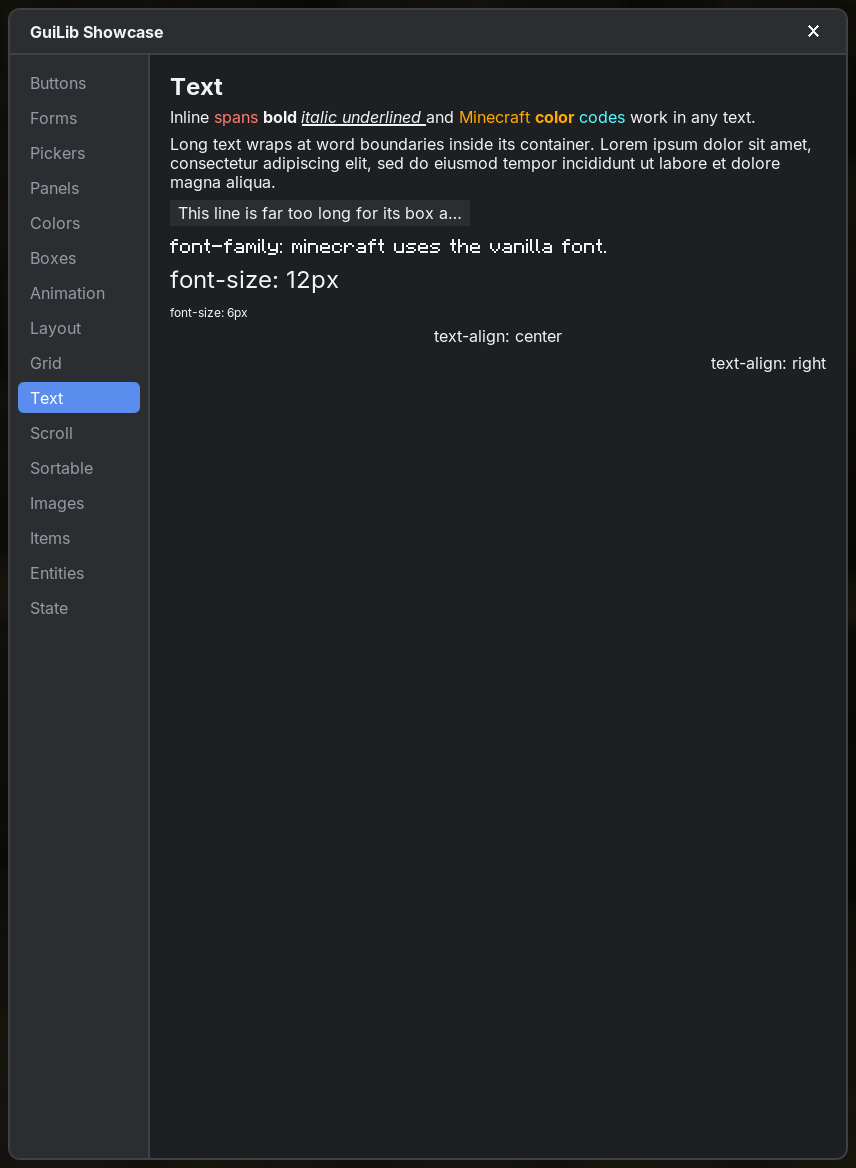
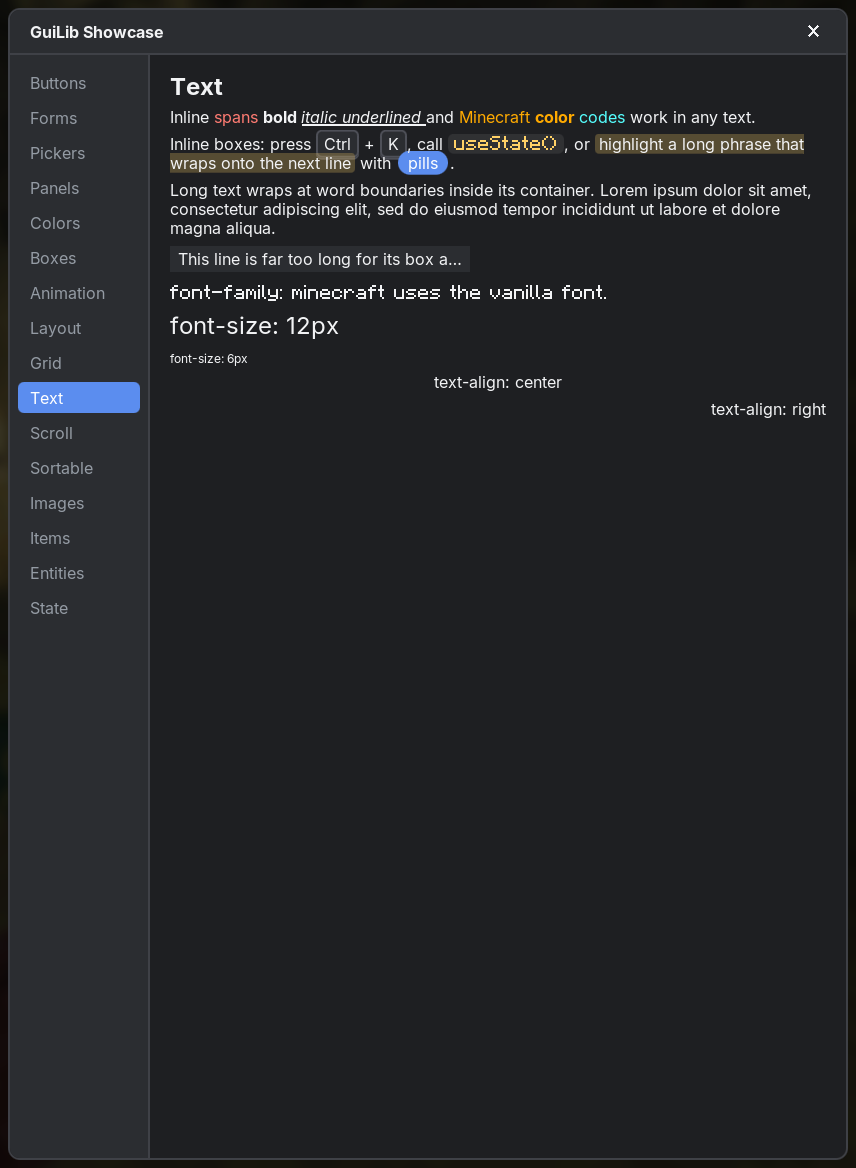
GuiLib docs: inline element boxes

diff --git a/guilib/differences.html b/guilib/differences.html
@@ -27,7 +27,7 @@
   <main class="content">
     <article>
       <div class="page-head"><div class="eyebrow">Guide</div><h1>Differences from the web</h1><p class="lead">GuiLib follows the web wherever it can. These are the places where it doesn&#x27;t. Read this once; it saves time.</p></div>
-      <h2 id="units-defaults"><a class="anchor" href="#units-defaults">#</a>Units &amp; defaults</h2><ul><li><strong><code>px</code> means GUI pixels</strong> (scaled by Minecraft&#x27;s GUI scale). The default <code>font-size</code> is <strong>8px</strong> and <code>1rem = 8px</code>, so a web value like <code>font-size: 14px</code> is large here; typical UI text is 7–10px.</li><li><code>body</code> <strong>is the screen</strong>: always exactly viewport-sized; there is no <code>html</code>; <code>:root</code> matches <code>body</code>.</li><li><code>box-sizing: border-box</code> is the <strong>default</strong> for everything.</li><li><strong>No margin collapsing</strong>: vertical margins add up.</li><li>The default text color is light (<code>#f2f3f5</code>), the default font Inter.</li><li><code>border-width</code> defaults to 1px; like the web, a border without <code>border-style</code> draws nothing.</li></ul><h2 id="api"><a class="anchor" href="#api">#</a>API</h2><ul><li><code>style</code> is a CSS <strong>string</strong>, not an object. Event handlers are Kotlin lambdas (<code>onClick = { e -&gt; … }</code>).</li><li><code>useEffect { }</code> without deps runs <strong>once</strong> (like <code>[]</code>); there is no &quot;run after every render&quot; variant.</li><li><code>onChange</code> on inputs, selects, checkboxes, switches and sliders fires on every change (React behaviour); sliders also have <code>onChangeEnd</code>.</li></ul><h2 id="rendering"><a class="anchor" href="#rendering">#</a>Rendering</h2><ul><li><code>overflow: hidden</code> clips <strong>rectangularly</strong>. With <code>border-radius</code> on the clipping element, child backgrounds that sit exactly in one of its corners (headers, footers, sidebars) are rounded to match; other content is not cut to the curve.</li><li>Per-side borders on a box with <code>border-radius</code> are drawn as straight strips that stop at the rounded corners. Uniform borders are exact.</li><li>Inline elements (<code>span</code>, …) ignore padding, border and background; use <code>display: inline-block</code> for boxes inside text.</li><li>Every positioned element (<code>relative</code> / <code>absolute</code> / <code>fixed</code>) is its own paint layer; <code>z-index</code> orders layers among siblings. Use <code>portal { }</code> for things that must be on top of everything. <code>position: fixed</code> ignores ancestors&#x27; <code>transform</code>.</li><li><code>display: inline-block</code>, <code>img</code> and <code>item</code> sit on the text baseline; <code>vertical-align</code> is not supported.</li><li>Flex items have <code>min-width: auto</code> like the web; for ellipsis inside flex, set <code>min-width: 0</code>.</li></ul><h2 id="text"><a class="anchor" href="#text">#</a>Text</h2><ul><li>Minecraft <code>§</code> codes work in all text. Text inputs show what the user types literally (<code>§</code> included).</li><li>No kerning; <code>text-align: justify</code> behaves like <code>left</code>.</li><li>No right-to-left or complex-script shaping. Characters missing from the font (CJK, emoji, …) fall back to Minecraft&#x27;s font.</li><li>Rotated text is drawn at its unrotated resolution (slightly soft).</li></ul><h2 id="not-supported-yet"><a class="anchor" href="#not-supported-yet">#</a>Not supported (yet)</h2><ul><li>3D transforms (a <code>transform</code> containing them is ignored), <code>repeating-*-gradient</code>, <code>conic-gradient</code>.</li><li><code>@media</code>, <code>@import</code>, <code>@font-face</code> (register fonts with <code>FontManager</code>), pseudo-elements (<code>::before</code>), <code>:nth-child(… of S)</code>.</li><li><code>float</code>, <code>align-content</code>, <code>vertical-align</code>, <code>letter-spacing</code>, subgrid, named grid lines. Grid <code>auto-fit</code> behaves like <code>auto-fill</code>.</li><li>Images are resource locations (PNG, SVG or GIF), no URLs.</li></ul>
+      <h2 id="units-defaults"><a class="anchor" href="#units-defaults">#</a>Units &amp; defaults</h2><ul><li><strong><code>px</code> means GUI pixels</strong> (scaled by Minecraft&#x27;s GUI scale). The default <code>font-size</code> is <strong>8px</strong> and <code>1rem = 8px</code>, so a web value like <code>font-size: 14px</code> is large here; typical UI text is 7–10px.</li><li><code>body</code> <strong>is the screen</strong>: always exactly viewport-sized; there is no <code>html</code>; <code>:root</code> matches <code>body</code>.</li><li><code>box-sizing: border-box</code> is the <strong>default</strong> for everything.</li><li><strong>No margin collapsing</strong>: vertical margins add up.</li><li>The default text color is light (<code>#f2f3f5</code>), the default font Inter.</li><li><code>border-width</code> defaults to 1px; like the web, a border without <code>border-style</code> draws nothing.</li></ul><h2 id="api"><a class="anchor" href="#api">#</a>API</h2><ul><li><code>style</code> is a CSS <strong>string</strong>, not an object. Event handlers are Kotlin lambdas (<code>onClick = { e -&gt; … }</code>).</li><li><code>useEffect { }</code> without deps runs <strong>once</strong> (like <code>[]</code>); there is no &quot;run after every render&quot; variant.</li><li><code>onChange</code> on inputs, selects, checkboxes, switches and sliders fires on every change (React behaviour); sliders also have <code>onChangeEnd</code>.</li></ul><h2 id="rendering"><a class="anchor" href="#rendering">#</a>Rendering</h2><ul><li><code>overflow: hidden</code> clips <strong>rectangularly</strong>. With <code>border-radius</code> on the clipping element, child backgrounds that sit exactly in one of its corners (headers, footers, sidebars) are rounded to match; other content is not cut to the curve.</li><li>Per-side borders on a box with <code>border-radius</code> are drawn as straight strips that stop at the rounded corners. Uniform borders are exact.</li><li>Inline elements (<code>span</code>, <code>code</code>, …) paint background, border and shadow per line like the web; vertical padding/border don&#x27;t change the line height. Use <code>display: inline-block</code> for boxes that must not wrap or need a size.</li><li>Every positioned element (<code>relative</code> / <code>absolute</code> / <code>fixed</code>) is its own paint layer; <code>z-index</code> orders layers among siblings. Use <code>portal { }</code> for things that must be on top of everything. <code>position: fixed</code> ignores ancestors&#x27; <code>transform</code>.</li><li><code>display: inline-block</code>, <code>img</code> and <code>item</code> sit on the text baseline; <code>vertical-align</code> is not supported.</li><li>Flex items have <code>min-width: auto</code> like the web; for ellipsis inside flex, set <code>min-width: 0</code>.</li></ul><h2 id="text"><a class="anchor" href="#text">#</a>Text</h2><ul><li>Minecraft <code>§</code> codes work in all text. Text inputs show what the user types literally (<code>§</code> included).</li><li>No kerning; <code>text-align: justify</code> behaves like <code>left</code>.</li><li>No right-to-left or complex-script shaping. Characters missing from the font (CJK, emoji, …) fall back to Minecraft&#x27;s font.</li><li>Rotated text is drawn at its unrotated resolution (slightly soft).</li></ul><h2 id="not-supported-yet"><a class="anchor" href="#not-supported-yet">#</a>Not supported (yet)</h2><ul><li>3D transforms (a <code>transform</code> containing them is ignored), <code>repeating-*-gradient</code>, <code>conic-gradient</code>.</li><li><code>@media</code>, <code>@import</code>, <code>@font-face</code> (register fonts with <code>FontManager</code>), pseudo-elements (<code>::before</code>), <code>:nth-child(… of S)</code>.</li><li><code>float</code>, <code>align-content</code>, <code>vertical-align</code>, <code>letter-spacing</code>, subgrid, named grid lines. Grid <code>auto-fit</code> behaves like <code>auto-fill</code>.</li><li>Images are resource locations (PNG, SVG or GIF), no URLs.</li></ul>
       <nav class="pager"><a class="prev" href="components.html"><span>Previous</span>Components &amp; hooks</a><a class="next" href="recipes.html"><span>Next</span>Recipes</a></nav>
     </article>
     <footer class="footer">GuiLib 0.3.0 · Minecraft 26.1.2 / 26.2 (Fabric) · LGPL-3.0 · Screenshots taken in-game at GUI scale 2.</footer>

diff --git a/docs-src/pages.py b/docs-src/pages.py
@@ -949,7 +949,7 @@ differences = Page("differences", "Differences from the web", "Guide", (
     h2("Rendering"),
     raw(ul("`overflow: hidden` clips **rectangularly**. With `border-radius` on the clipping element, child backgrounds that sit exactly in one of its corners (headers, footers, sidebars) are rounded to match; other content is not cut to the curve.",
            "Per-side borders on a box with `border-radius` are drawn as straight strips that stop at the rounded corners. Uniform borders are exact.",
-           "Inline elements (`span`, …) ignore padding, border and background; use `display: inline-block` for boxes inside text.",
+           "Inline elements (`span`, `code`, …) paint background, border and shadow per line like the web; vertical padding/border don't change the line height. Use `display: inline-block` for boxes that must not wrap or need a size.",
            "Every positioned element (`relative` / `absolute` / `fixed`) is its own paint layer; `z-index` orders layers among siblings. Use `portal { }` for things that must be on top of everything. `position: fixed` ignores ancestors' `transform`.",
            "`display: inline-block`, `img` and `item` sit on the text baseline; `vertical-align` is not supported.",
            "Flex items have `min-width: auto` like the web; for ellipsis inside flex, set `min-width: 0`.")),
